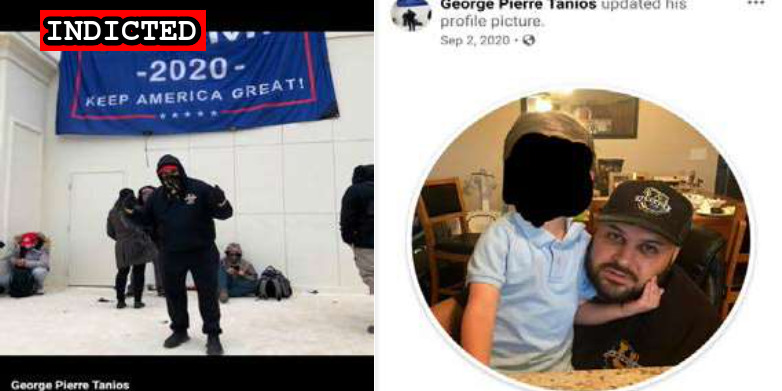
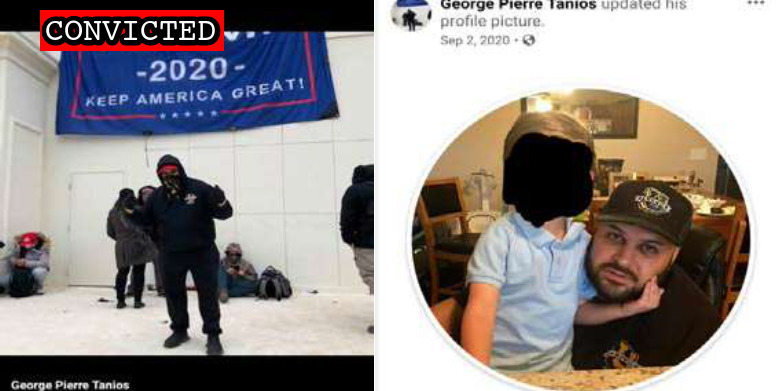
Tanios plea

Changed region(s): [[0.0307, 0.0307, 0.3069, 0.1535]]

diff --git a/docs/_suspects/george-tanios.md b/docs/_suspects/george-tanios.md
@@ -4,15 +4,17 @@ lastName: Tanios
 hashtag: TrumpUGrad
 aka: Sandwich Nazi
 residence: West Virginia
-status: Indicted
+status: Convicted
 date: 2021-03-15
 charged: 2021-03-15
 indicted: 2021-03-17
-convicted:
+convicted: 2022-07-27
+acquitted:
 sentenced:
 dismissed:
 deceased:
-plea_hearing:
+plea_hearing: 2022-07-27
+trial_date:
 sentencing:
 age: 39
 occupation: Owner, Sandwich Shop
@@ -54,6 +56,14 @@ videos:
   - title: Exhibit 12 - Video Upper Terrace West-2.mp4 (0:02:50)
     url: https://propublica-data-j6cases-videos.s3.us-east-1.amazonaws.com/2388d310ce2b013960702cde48001122.mp4
 charges:
+  - code: 18 USC § 1752(a)(1)
+    title: Entering a restricted building or grounds
+    url: https://www.law.cornell.edu/uscode/text/18/1752
+    felony: false
+  - code: 18 USC § 1752(a)(2)
+    title: Disorderly and disruptive conduct in a restricted building or grounds
+    url: https://www.law.cornell.edu/uscode/text/18/1752
+    felony: false
 sentence:
 ---
 
@@ -67,3 +77,4 @@ sentence:
 - [Defense Reply to Opposition to Motion for Release from Custody](https://extremism.gwu.edu/sites/g/files/zaxdzs2191/f/George%20Pierre%20Tanios%20Defense%20Reply%20to%20Opposition%20to%20Motion%20for%20Release%20from%20Custody.pdf)
 - [Appeals Court Ruling](https://extremism.gwu.edu/sites/g/files/zaxdzs2191/f/George%20Pierre%20Tanios%20Appeals%20Court%20Judgment%20on%20Pretrial%20Release.pdf)
 - [Jail Release (Video)](https://twitter.com/EricFlackTV/status/1428845957488291840)
+- [Superseding Information](https://storage.courtlistener.com/recap/gov.uscourts.dcd.228981/gov.uscourts.dcd.228981.72.0_2.pdf)

diff --git a/docs/_suspects/julian-khater.md b/docs/_suspects/julian-khater.md
@@ -13,6 +13,7 @@ sentenced:
 dismissed:
 deceased:
 plea_hearing:
+trial_date: 2022-10-05
 sentencing:
 age: 32
 occupation:
@@ -36,6 +37,7 @@ videos:
 charges:
 sentence:
 ---
+
 - [News Report](https://apnews.com/article/george-tanios-julian-khater-charged-capitol-riot-f28484b486155d911cab41c90a8bed8d)
 - [Statement of Facts](https://www.justice.gov/usao-dc/case-multi-defendant/file/1376156/download)
 - [Indictment](https://www.justice.gov/usao-dc/case-multi-defendant/file/1377311/download)

diff --git a/docs/_suspects/daniel-shaw.md b/docs/_suspects/daniel-shaw.md
@@ -12,7 +12,7 @@ convicted:
 sentenced:
 dismissed:
 deceased:
-plea_hearing:
+plea_hearing: 2022-09-21
 sentencing:
 age:
 occupation:
@@ -36,5 +36,6 @@ videos:
 charges:
 sentence:
 ---
+
 - [News Report](https://patch.com/california/petaluma/sonoma-county-man-charged-u-s-capitol-breach)
 - [Statement of Facts](https://www.justice.gov/usao-dc/case-multi-defendant/file/1459181/download)
